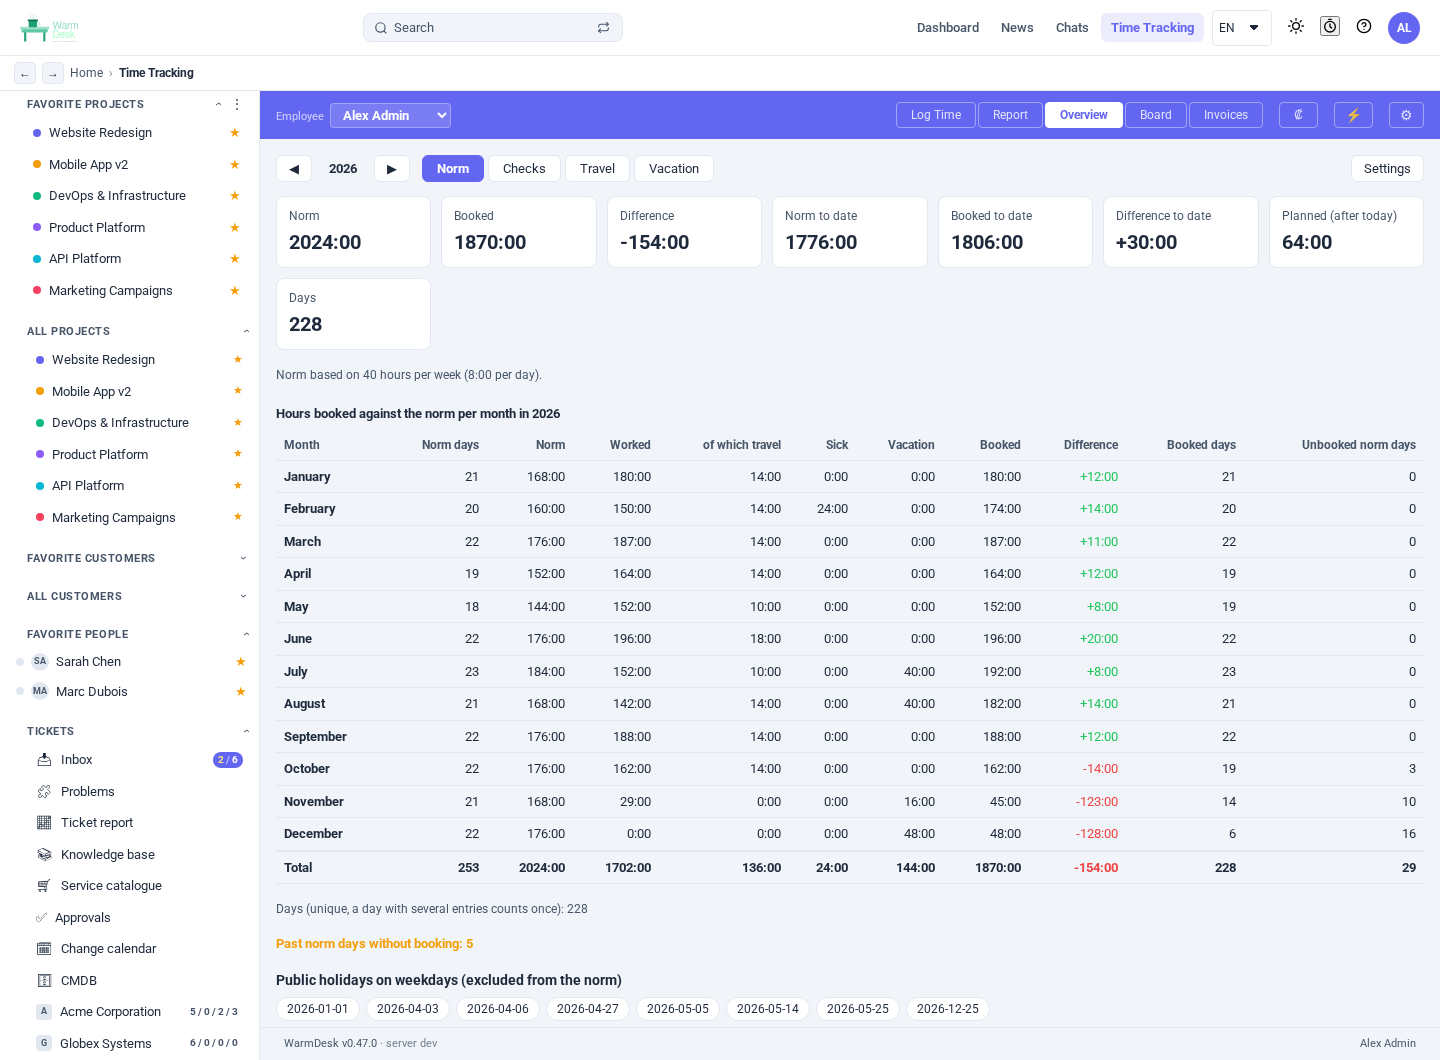
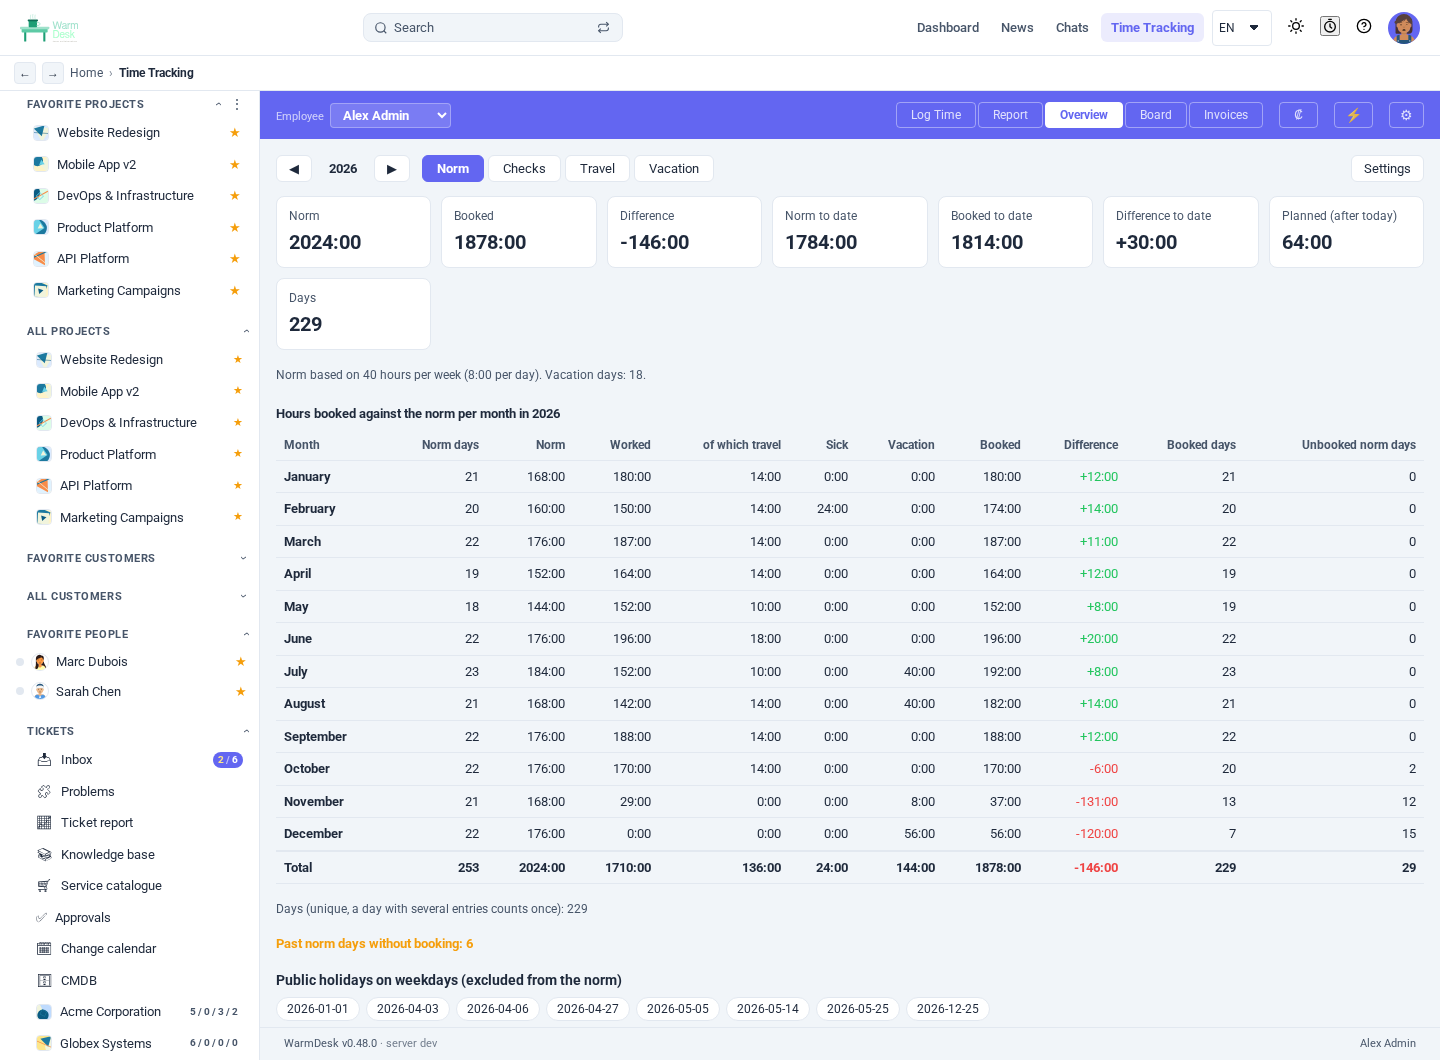
feat(time-tracking): show the vacation days in the norm overview line
The line under the Norm cards now also gives the number of vacation days
booked in the year: the vacation time divided by the norm per day (a 36-hour
week has 7:12 days, so part days show as 1.5). The text is "Label: n" in all 12
languages so it needs no plural forms. The Norm screenshot is re-recorded.

diff --git a/frontend/src/components/timetracking/overview/NormPanel.vue b/frontend/src/components/timetracking/overview/NormPanel.vue
@@ -10,7 +10,7 @@
       <div class="ov-card"><dt>{{ $t('timeOverview.planned') }}</dt><dd>{{ fmtHM(data.planned_minutes) }}</dd></div>
       <div class="ov-card"><dt>{{ $t('timeOverview.days') }}</dt><dd>{{ data.total_days }}</dd></div>
     </dl>
-    <p class="ov-muted">{{ $t('timeOverview.norm_basis', { hours: data.hours_per_week, perDay: fmtHM(data.norm_minutes_per_day) }) }}</p>
+    <p class="ov-muted">{{ $t('timeOverview.norm_basis', { hours: data.hours_per_week, perDay: fmtHM(data.norm_minutes_per_day), days: minutesToDays(data.total.vacation_minutes, data.norm_minutes_per_day) }) }}</p>
 
     <div class="ov-table-wrap">
       <table class="ov-table">
@@ -78,7 +78,7 @@
 <script setup>
 import { useI18n } from 'vue-i18n'
 import { useDateFormat } from '@/composables/useDateFormat'
-import { fmtHM, fmtSignedHM, diffClass, monthName } from '@/utils/timeOverviewFormat'
+import { fmtHM, fmtSignedHM, diffClass, monthName, minutesToDays } from '@/utils/timeOverviewFormat'
 import './overview.css'
 
 defineProps({ data: { type: Object, required: true } })

diff --git a/frontend/src/utils/timeOverviewFormat.test.js b/frontend/src/utils/timeOverviewFormat.test.js
@@ -1,5 +1,5 @@
 import { describe, it, expect } from 'vitest'
-import { fmtHM, fmtSignedHM, minutesToHours, hoursToMinutes, diffClass, fmtKm } from './timeOverviewFormat'
+import { fmtHM, fmtSignedHM, minutesToHours, hoursToMinutes, diffClass, fmtKm, minutesToDays } from './timeOverviewFormat'
 
 describe('timeOverviewFormat', () => {
   it('formats minutes as h:mm', () => {
@@ -30,5 +30,14 @@ describe('timeOverviewFormat', () => {
   it('rounds kilometres', () => {
     expect(fmtKm(12.345)).toBe('12.3')
     expect(fmtKm(null)).toBe('0')
+  })
+
+  it('converts minutes to days of the norm length', () => {
+    expect(minutesToDays(480, 480)).toBe(1)
+    expect(minutesToDays(8640, 480)).toBe(18)
+    expect(minutesToDays(720, 480)).toBe(1.5)
+    expect(minutesToDays(3000, 432)).toBe(6.94) // a 36-hour week has 7:12 days
+    expect(minutesToDays(480, 0)).toBe(0)
+    expect(minutesToDays(undefined, 480)).toBe(0)
   })
 })

diff --git a/frontend/src/components/timetracking/overview/__tests__/NormPanel.vue.test.js b/frontend/src/components/timetracking/overview/__tests__/NormPanel.vue.test.js
@@ -51,6 +51,17 @@ describe('NormPanel', () => {
     expect(w.text()).toContain('198')
   })
 
+  it('shows the number of vacation days in the norm line', () => {
+    // total vacation 480 min at 480 min a day = 1 day
+    expect(mountIt().text()).toContain('Norm based on 40 hours per week (8:00 per day). Vacation days: 1.')
+  })
+
+  it('counts part days when the norm day is shorter', () => {
+    const data = { ...fixture, hours_per_week: 36, norm_minutes_per_day: 432, total: { ...fixture.total, vacation_minutes: 648 } }
+    const w = mount(NormPanel, { props: { data }, global: { plugins: [i18n] } })
+    expect(w.text()).toContain('Vacation days: 1.5.')
+  })
+
   it('lists the holiday weekdays', () => {
     expect(mountIt().text()).toContain('2026-12-25')
   })

diff --git a/frontend/src/utils/timeOverviewFormat.js b/frontend/src/utils/timeOverviewFormat.js
@@ -42,3 +42,10 @@ export function fmtKm(km) {
 export function monthName(locale, month) {
   return new Intl.DateTimeFormat(locale || 'en', { month: 'long' }).format(new Date(2024, month - 1, 1))
 }
+
+/** Minutes -> days of `perDayMinutes` each, at most two decimals: (720, 480) -> 1.5. */
+export function minutesToDays(minutes, perDayMinutes) {
+  const per = Number(perDayMinutes) || 0
+  if (per <= 0) return 0
+  return Math.round(((Number(minutes) || 0) / per) * 100) / 100
+}
